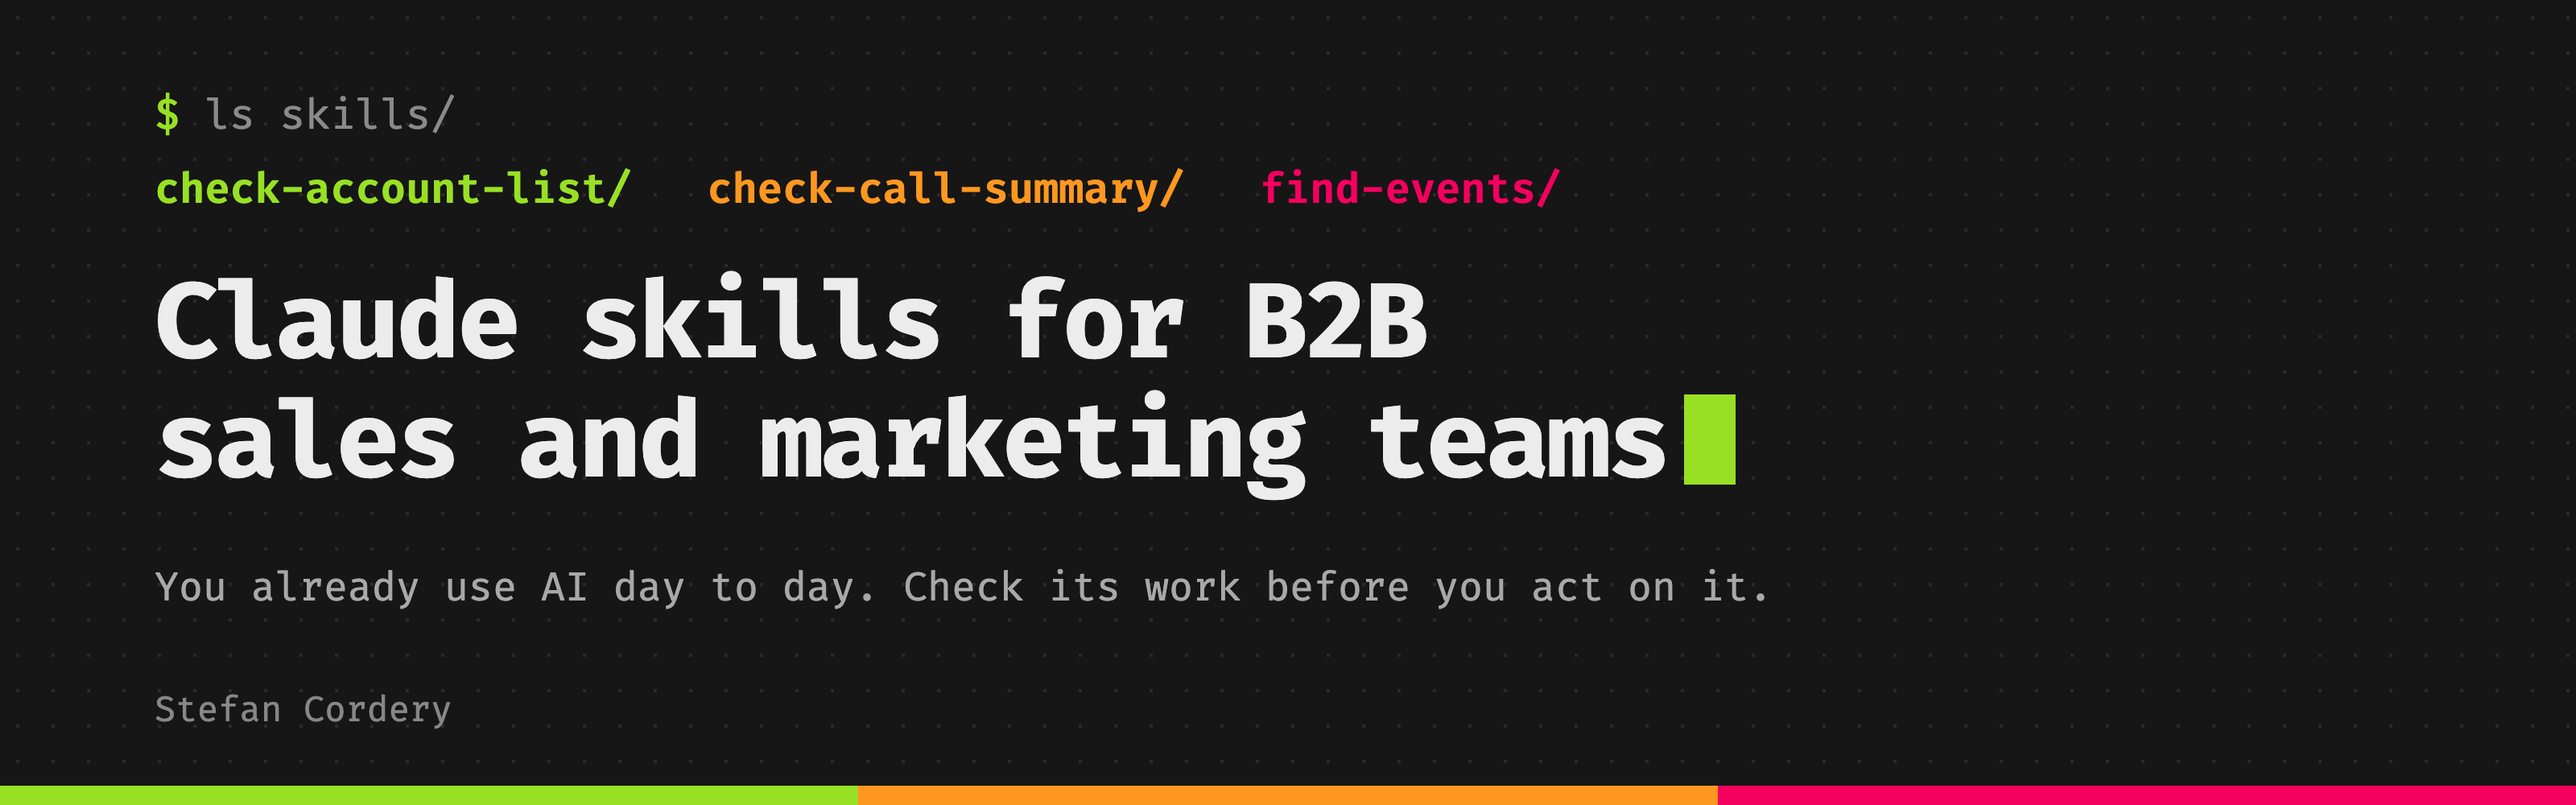
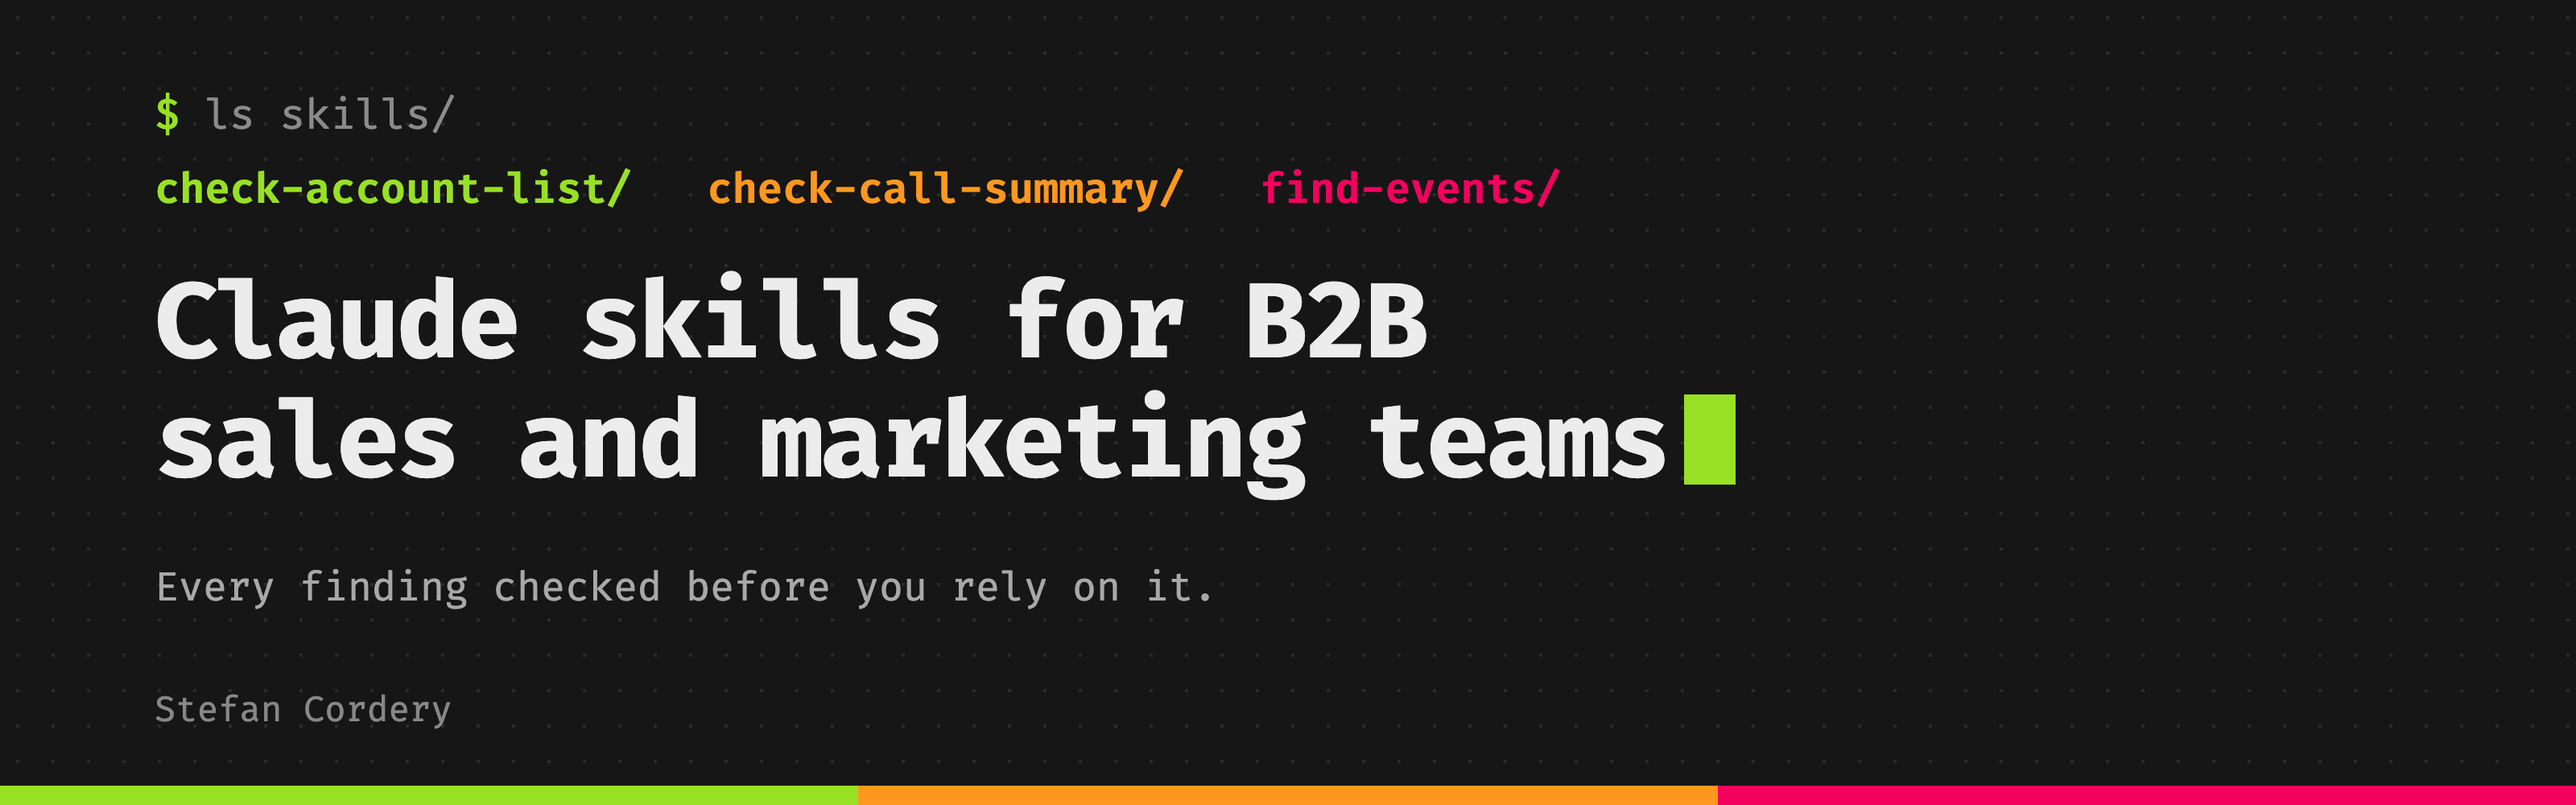
README: say find-events does the research, the other two check work you have (#7)
The banner's second line and the README intro framed all three skills as
checking AI output. find-events does the research itself, so the intro now
splits the two jobs, and the banner says every finding is checked.

Changed region(s): [[0.0625, 0.713, 0.6875, 0.775]]

diff --git a/README.md b/README.md
@@ -1,23 +1,23 @@
-![Claude skills for B2B sales and marketing teams. You already use AI day to day. Check its work before you act on it. By Stefan Cordery.](docs/assets/banner.png)
+![Claude skills for B2B sales and marketing teams. Every finding checked before you rely on it. By Stefan Cordery.](docs/assets/banner.png)
 
 # Skills
 
 [![CI](https://github.com/scordsy/skills/actions/workflows/ci.yml/badge.svg)](https://github.com/scordsy/skills/actions/workflows/ci.yml)
 [![License: MIT](https://img.shields.io/badge/license-MIT-blue.svg)](LICENSE)
 
-Claude skills for B2B sales and marketing teams who already use AI day to day, and need to trust what it gives them before they act on it.
+Claude skills for B2B sales and marketing teams. Each one does an everyday job, and every finding is checked before you rely on it.
 
 ## Why these exist
 
-AI makes everyday sales and marketing jobs fast: a list of target accounts, a summary of a sales call, a shortlist of events. The output looks right, so it goes straight into the CRM, the outbound sequence or the events budget. Often it is quietly wrong.
+AI makes everyday sales and marketing jobs fast: a list of target accounts, a summary of a sales call. The output looks right, so it goes straight into the CRM or the outbound sequence. Often it is quietly wrong.
 
 When I asked ChatGPT for "50 companies like our best customer" and checked a sample (15), only 1 was usable. None were made up. They were real companies, just the wrong ones: some had been taken over, some were too big or too small, some sold to a different kind of customer, and some were direct competitors of the company asking for the list.
 
 ChatGPT even told me to check the list before using it: confirm each company's headcount, confirm where it's based, check it actually sells its own software. Good advice. It just didn't do any of it. That checking is the slow, tedious part that gets skipped when you're busy, and it's the part these skills do for you.
 
-Each skill here does one of those everyday jobs and checks the work before you rely on it:
+Two of the skills here check work you already have: a target account list, or an AI summary of a call. The third, find-events, does the research for you: a structured search for the events worth attending to meet the people you want. All three work the same way:
 
-- **It starts from something you already have**: a list, a call transcript, the people you want to meet.
+- **It starts from what you give it**: a list, a call transcript, the people you want to meet.
 - **Every finding comes with its source**: a link and the exact words, so you can see why without taking it on trust.
 - **The part that does the work never checks it.** A separate checker tries to prove each finding wrong.
 - **No API keys, no paid tools, no accounts to create.** Install it and run it.
